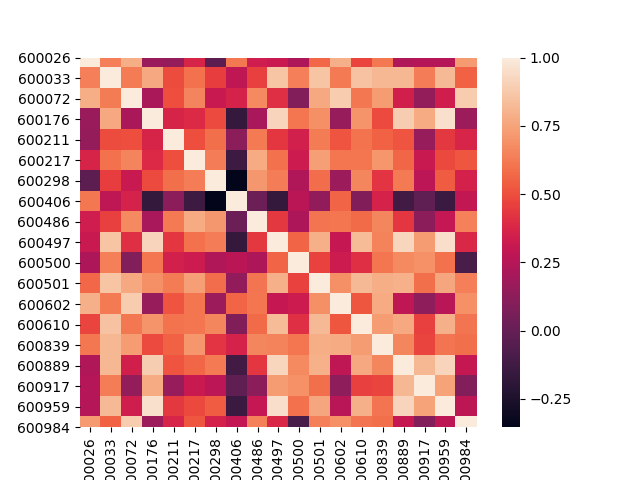
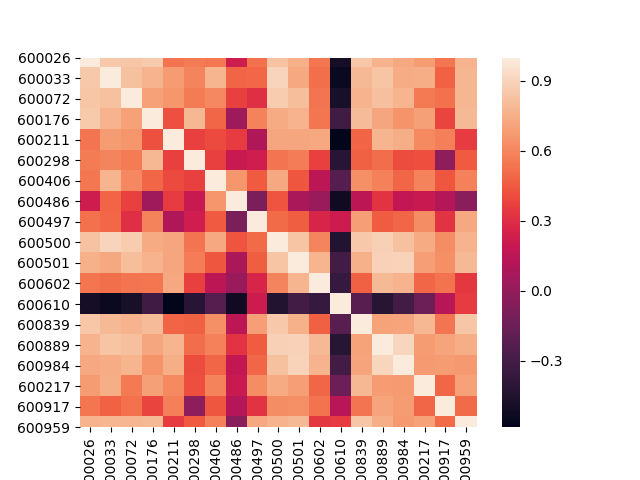
add README and update png

diff --git a/select_stock.py b/select_stock.py
@@ -125,13 +125,13 @@ def check_pearson_corr(path):
     df = pd.read_csv(path)
     df = df.drop(['DateTime'], axis=1)
     # plot LastPx
-    df.plot(figsize=(14, 6))
-    plt.savefig('./19_stocks.png')
+    df.plot(figsize=(14, 9))
+    plt.savefig('./19_stocks_raw.png')
     plt.close()
     # plot percentage
     df_pc = df.pct_change()
-    df_pc.plot(figsize=(14, 6))
-    plt.savefig('./19_stock_line.png')
+    df_pc.plot(figsize=(14, 9))
+    plt.savefig('./19_stock_pct.png')
     plt.close()
     # pair plot
     sns.pairplot(df.dropna())
@@ -140,7 +140,7 @@ def check_pearson_corr(path):
     # calculate corr
     corr = df.corr(method='pearson', min_periods=1)  # pearson方法计算相关性
     print(corr)
-    corr.to_csv('./test_set_corr.csv', index=False)
+    corr.to_csv('./train_set_corr.csv', index=False)
     # corr heatmap
     sns.heatmap(corr)
     plt.savefig('./19_stocks_heatmap.png', figsize=(9,9))
@@ -152,7 +152,7 @@ def check_pearson_corr(path):
 # generate_train_test_all_table()
 # generate_sub_test_train_all_table()
 # transfer_sub_table()
-# check_pearson_corr('./test_set.csv')
+check_pearson_corr('./train_set.csv')
 
 
 

diff --git a/README.md b/README.md
@@ -1,0 +1,30 @@
+# Code
+
+select_stock.py
+
+# Data File
+
+## 19 Stocks we chose
+
+stock_table: 19 stocks from different industry areas chose randomly.
+
+## Correlation analysis of 19 stocks on train set
+
+train_set_corr.csv: correlation data table 
+
+19_stock_pct.png:  percentage(LastPx/PreClosePx) of every stock form 2014 to 2017
+
+19_stock_raw.png: LastPx of every stock form 2014 to 2017
+
+19_stock_heatmap.png: heatmap of 19 stocks which shows the correlation of every 2 stocks. 
+
+19_tock_pairplot.png: pairplot graph of 19 stocks which shows the correlation of every 2 stocks. 
+
+## Data preprocess: Train set, Test set
+
+train_set.csv:  LastPx (colse data) of 19 stocks form 2014-2017
+
+test_set.csv:  LastPx (colse data) of 19 stocks form 2017-2019
+
+all_set: LastPx (colse data) of 19 stocks form 2014-2019
+
